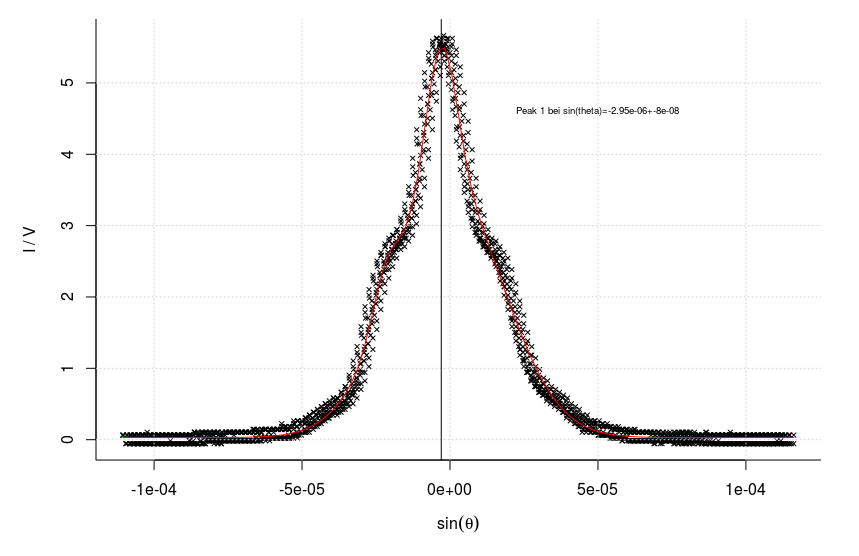
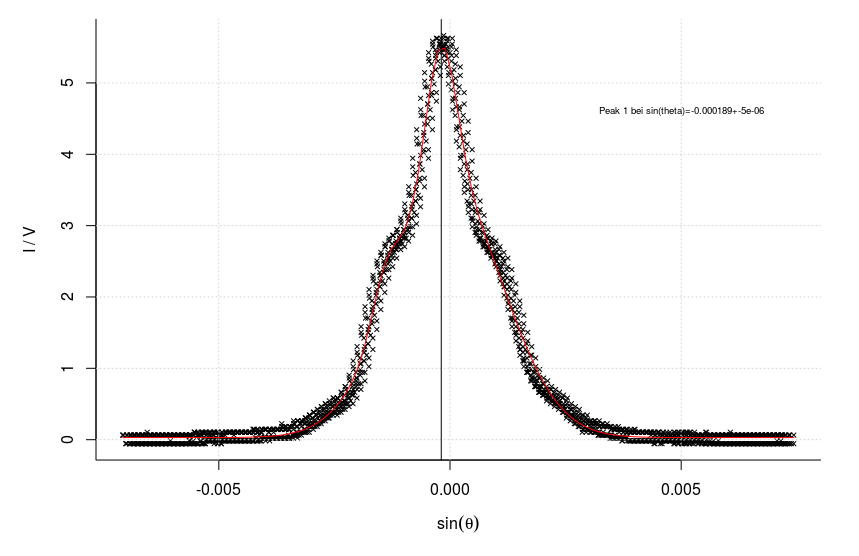
dfhu

diff --git a/ultraschall.tex b/ultraschall.tex
@@ -113,6 +113,8 @@ Trifft eine Lichtwelle auf ein Hindernis z.B. einen Spalt wird das Phänomen der
 
 \gra{Fraunhofer}{Fraunhofersche Anordnung \label{Fraunhofer}}           
 
+\subsection{Raman-Nath-Theorie}
+\label{Raman-Nath}
 \newpage
 \section{Sinusgitter}
 
@@ -199,6 +201,8 @@ g_{ges} = 996 \pm 7 nm
 
 \subsubsection{Referenzgitter}
 
+\label{Happyisttoll}
+
 Da das Oszilloskop eine Zeitdifferenz zwischen den Maxima angibt und keine Winkel, wird mit einem Referenzgitter mit bekannter Gitterkonstante zunächst eine Eichung des Winkel-Zeit-Verhältnisses durchgeführt und ein Umrechnungsfaktor bestimmt. Wir tragen hierfür die Zeit über die theoretische Lage der Maxima auf, die sich aus \[\sin\theta=\frac{n\lambda}{K_R}\] mit $K_R = 0.125 mm$ ergibt und führen einen linearen Fit durch.
 
 \vskip 10 pt
@@ -206,15 +210,15 @@ Da das Oszilloskop eine Zeitdifferenz zwischen den Maxima angibt und keine Winke
  {\centering{}
 \begin{tabular}{c||c|c}
  m & $\sin(\theta)$ & t/$10^{-4}$ \\ \hline\hline
- -2 &&    $ -1.3427 \pm 0.0011 $  \\ \hline
- -1 && $ -0.6719 \pm 0.0005 $     \\ \hline
- 0 &&  $ 0\pm 0.0004$         \\ \hline
- 1 &&   $ 0.6729 \pm 0.0005 $        \\ \hline
- 2 &&     $ 1.3479 \pm 0.0012 $        \\ \hline
+ -2 &$-0.0101$&    $ -1.3427 \pm 0.0011 $  \\ \hline
+ -1 &$-0.0051$& $ -0.6719 \pm 0.0005 $     \\ \hline
+ 0 &$0$&  $ 0\pm 0.0004$         \\ \hline
+ 1 &$0.0051$&   $ 0.6729 \pm 0.0005 $        \\ \hline
+ 2 &$0.0101$&     $ 1.3479 \pm 0.0012 $        \\ \hline
 
- \end{tabular}}
+ \end{tabular}
  
- \caption{Abstände der Beugungsmaxima}
+ \caption{Abstände der Beugungsmaxima}}
 \end{table}
 \vskip 10 pt
 
@@ -223,10 +227,21 @@ Da das Oszilloskop eine Zeitdifferenz zwischen den Maxima angibt und keine Winke
 Aus der Steigung des Linearen Fits (siehe Abbildung \ref{EINHORN} ) lässt sich nun der Faktor für die Umrechnung von Zeit nach Winkeln bestimmen:
 
 \begin{align*}
-a &= 
-\text{mit} a = \frac{\sin(\theta))}{t}
+a &= (74.35\pm0.05)\,\frac1{\mathrm{s}}&
+\text{mit } a = \frac{\sin(\theta))}{t}
 \end{align*}
 
+\subsubsection{Bestimmung verschiedener Gitterkonstanten}
+Wir haben für 5 verschiedenen unbekannte Amplitudengitter Interferenzmuster aufgenommen und bestimmen nun aus diesen die jeweilige Gitterkonstante. Die Zeitabhängigkeit der Interferenzmuster werden nun mithilfe des in \ref{Happyisttoll} berechneten Wertes in eine $\sin\theta$-Abhängigkeit umgerechnet. Anschließend wird aus den Beugungsordnungen in Abhängigkeit der Positionen der Maxima die Gitterkonstante des jeweiligen Gitters bestimmt. Die Steigung $a$ des linearen Fits $m=\frac{K}{\lambda}\sin\theta$ beträgt nun $a=\frac{K}{\lambda}$. Damit gilt für die Gitterkonstante: $$K=a\cdot\lambda$$.
+
+Wir erhalten nun mit dieser Rechnung die folgenden Werte für die Gitterkonstanten:
+\begin{align*}
+	K_1&=(129.26\pm0.07)\,\mathrm{\mu m}\\
+	K_2&=(34.26\pm0.03)\,\mathrm{\mu m}\\
+	K_3&=(102.9\pm0.3)\,\mathrm{\mu m}\\
+	K_4&=(72\pm6)\,\mathrm{\mu m}\\
+	K_5&=(51.57\pm0.08)\,\mathrm{\mu m}\\
+\end{align*}
 
 
 \subsubsection{Aperturfunktion}
@@ -236,7 +251,7 @@ Wir bestimmen die Aperturfunktion für Gitter 1, da wir hier die meisten Maxima 
 Aus den Amplituden der gefitteten  Gaußfunktionen erhalten wir hierbei die Intensität, wobei wir wir für jedes Maximum die Amplitude aus linkem und rechtem Maximum gewichtet mitteln (siehe ref!!!). 
  \vskip 10 pt
  \begin{table}[h!]
- {\centering{}
+ {\centering
 \begin{tabular}{c||c|c|c}
  					& $I_1/V$ 	& $I_2/V$ & $I_{ges}/V$	\\ \hline\hline
 Maximum 5. Ordnung     & $0.08 \pm 0.14$  & $0.040 \pm 0.009$      &  $0.04012 \pm  0.00008$                       \\ \hline
@@ -245,8 +260,8 @@ Maximum 3. Ordnung	&	 $0.402 \pm 0.009$ 	   	&  $0.447 \pm 0.010$  	&  $0.425 \p
 Maximum 2. Ordnung      	&  $0.95 \pm 0.02$  	&  $0.92 \pm 0.02$  &  $0.935 \pm 0.014$  \\ \hline
 Maximum 1. Ordnung    & $2.8 \pm 0.1$ & $2.9 \pm 0.1$ &   $2.88 \pm 0.07$        \\ \hline                                           
 Maximumg 0. Ordnung  & -  & - & $2.72 \pm 0.06$
- \end{tabular}}
- \caption{Abstände der Beugungsmaxima}
+ \end{tabular}
+ \caption{Abstände der Beugungsmaxima}}
 \end{table}
 \vskip 10 pt
 
@@ -284,7 +299,61 @@ b = 120 nm
 \newpage
 \subsection{Auswertung}
 \subsubsection{Zeiteichung}
+Wie in \ref{Happyisttoll} haben wir das Referenzgitter mit $K_R=125 \mu m$ zur Zeiteichung benutzt. (siehe Abbildung \ref{simonhatsverkackt})
 
+\graTwo[0.49]{ultraschall-eichgitter}{ultraschall-zeiteichung}{Interferenzmuster des Referenzgitters und linearer Fit zur Bestimmung des Umrechnungsfaktors\label{simonhatsverkackt}}
+
+Aus dem linearen Fit erhalten wir:
+\begin{align*}
+a &=(70.64\pm0.06)\,\frac1{\mathrm{s}}&
+\text{mit } a = \frac{\sin(\theta)}{t}
+\end{align*}
+
+\subsubsection{Bestimmung der Beugungsmaxima}
+\gra[1]{ultraschall-regenbogen}{Interferenzmuster der Ultraschallwelle für verschiedene Spannungen \label{regenbogen}}
+In Abbildung \ref{regenbogen} sind die Beugungsbilder an der Ultraschallwelle für verschiedene Spannungen aufgetragen. An diese Beugungsmuster haben wir eine Summe von Gaußfunktionen gefittet. Die Ergebnisse der Fits sind im Anhang unter \ref{fitergebnisse} zu finden. Bei hohen Spannungen lassen sich bis zu 3 Beugungsordnungen sehen und sinnvoll aus dem Fit bestimmen, wobei bei niedrigen Spannungen nur noch das nullte Hauptmaximum zu bestimmen ist. 
+
+\subsubsection{Berechnung der Intensitäten an den Maxima}
+Da nicht für jede Spannung alle Beugungsmaxima zu sehen sind, wurde für jedes Maximum über alle für dieses Maximum bestimmten Positionen gewichtet gemittelt und an den Kurven, an denen diese Beugungsordnung nicht zu erkennen ist, für die Intensität der Funktionswert des Fits an der gemittelten Position benutzt. Nun werden die Intensitäten $I$ mit $\hat{I}=\frac{I}{I_0}$ genormt. $I_0$ ist hierbei die Intensität am Maximum nullter Ordnung bei der Spannung $U=0$V.
+
+\subsubsection{Überprüfung der Raman-Nath-Theorie}
+Die Raman-Nath-Theorie (siehe \ref{Raman-Nath}) besagt, dass sich die Intensität in Abhängigkeit der Spannung nach folgender Formel verhält:
+\begin{align}
+	I_m&=J_m^2(\alpha U) \label{besselquadratfunktion}
+\end{align}
+$J_m(x)$ sind hierbei die Besselfunktionen.
+
+\gra{ultraschall-besselfits}{Normierte Intensität der Beugungsmaxima über die Spannung mit Besselquadratfits zur Überprüfung der Raman-Nath-Theorie\label{besselfits}}
+
+In Abbildung \ref{besselfits} sieht man die an die Daten gefitteten Funktionen. Tabelle \ref{besselfitdaten} zeigt die Parameter der gefitteten Funktionen.
+
+\begin{table}[h!]
+	\centering{
+		
+		\begin{tabular}{c|c}
+			
+			m&$\alpha$\\\hline
+			-3&$0,271\pm0,005$\\
+			-2&$0,225\pm0,003$\\
+			-1&$0,271\pm0,012$\\
+			 0&$0,164\pm0,004$\\
+			 1&$0,271\pm0,012$\\
+			 2&$0,243\pm0,004$\\
+			 3&$0,280\pm0,003$\\			
+		\end{tabular}
+		\caption{Fitparameter $\alpha$ der Besselquadratfits (siehe Formel (\ref{besselquadratfunktion}))\label{besselfitdaten}}
+		}
+\end{table}
+
+\subsubsection{Bestimmung der Wellenlänge von Isooktan}
+Aus den Abständen der Beugungsordnungen der Interferenz an der Schallwelle kann nun, analog zu REFERENZ AMPLITUDENGITTER, die Wellenlänge der Schallwelle bestimmt werden: $$m=\frac{\Lambda}{\lambda}\sin\theta$$
+In Abbildung \ref{schallwellenlaenge} haben wir durch einen linearen Fit die Steigung $a$ von $m$ über $\sin\theta$ bestimmt. Daraus erhalten wir die Wellenlänge der Schallwelle mit:
+$$\Lambda=a\cdot\lambda=(557\pm2) \,\mathrm{\mu m}$$
+\gra{schallwellenlaenge}{Bestimmung der Schallwellenlänge aus der Steigung von $m$ über $\sin\theta$\label{schallwellenlaenge}}
+
+\subsubsection{Berechnung der Wellenlänge von Isooktan}
+Zum Vergleich berechnen wir die Wellenlänge der Schallwelle nun mithilfe der Frequenz und der Schallgeschwindigkeit in Isooktan. Die gemessene Frequenz beträgt: $\nu=(2092,35\pm0.03)kHz$ und für die Schallgeschwindigkeit verwenden wir den Literaturwert aus \cite{staat}: $c_{\mathrm{schall}}=1111\mathrm{\frac{m}{s}}$.
+Für die Wellenlänge erhalten wir nun: $$\Lambda=\frac{c_{\mathrm{schall}}}{\nu}=(530,982\pm0.008) \,\mathrm{\mu m}$$
 \newpage
 \subsection{Diskussion}
 
@@ -300,7 +369,8 @@ b = 120 nm
 
 \newpage
 \section{Anhang} 
-
+\subsection{Gaußfits}
+\label{fitergebnisse}
 
 \subsection{Laborheft\label{Laborheft}} 
 \begin{minipage}{\textwidth}
@@ -333,14 +403,13 @@ b = 120 nm
 %\bibitem{molmasse}
 %  \emph{http://www.convertunits.com/molarmass/<ELEMENTNAME AUF ENGLISCH>}, Stand 28.09.2015
   
-\bibitem{bibhall}
-\emph{http://www.schule-bw.de/unterricht/faecher/physik/online\_material/e\_lehre\_2/teilchenfeld/\\halleffekt.htm}, Stand 15.09.2016
+\bibitem{staat}
+\emph{http://hacol13.physik.uni-freiburg.de/fp/Versuche/FP1/FP1-2-Ultraschall/Staatsex-Ultraschall.pdf}, Stand 23.09.2016
 
 \bibitem{anleitung}
-\emph{http://hacol13.physik.uni-freiburg.de/fp/Versuche/FP1/FP1-8-Kernspinresonanz/Anleitung.pdf}, Stand 15.09.2016
+\emph{http://hacol13.physik.uni-freiburg.de/fp/Versuche/FP1/FP1-2-Ultraschall/Anleitung.pdf}, Stand 23.09.2016
 
-\bibitem{Babykatze}
-\emph{http://hacol13.physik.uni-freiburg.de/fp/Versuche/FP1/FP1-8-Kernspinresonanz/Anhang/A.Klett.pdf}, Stand 19.09.2016
+
 \end{thebibliography}
 
 \end{document}
